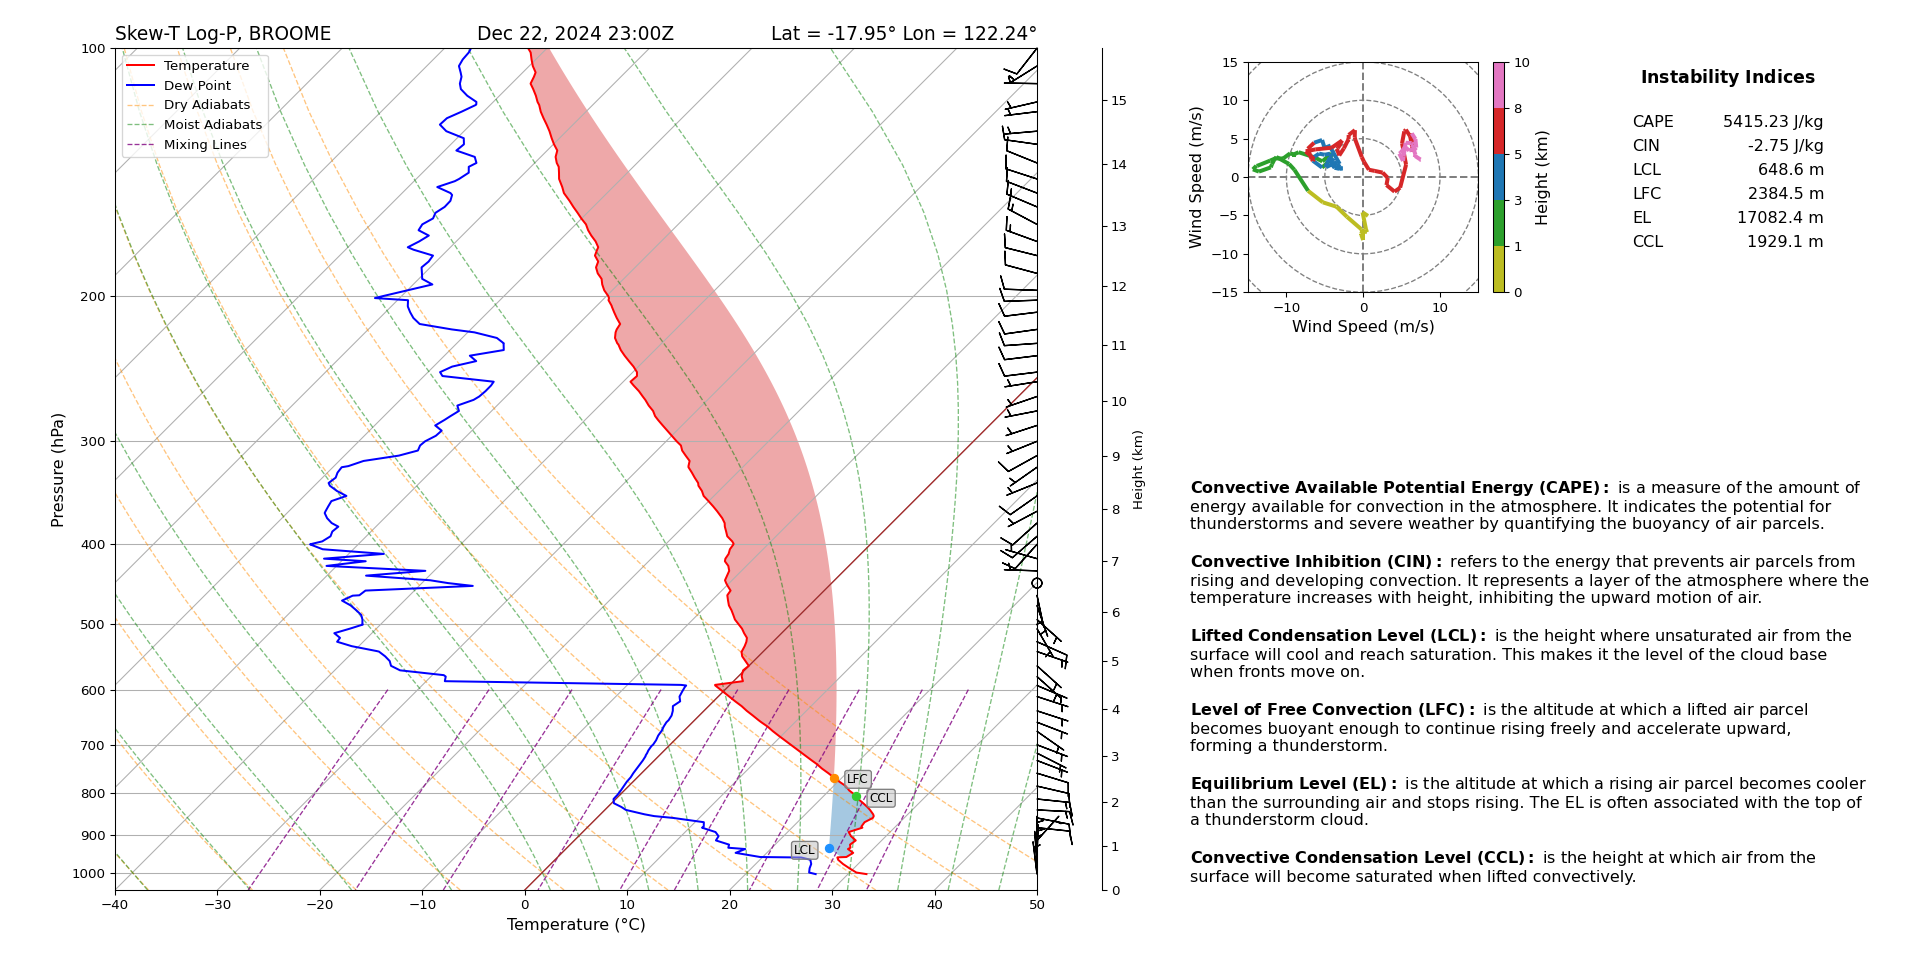
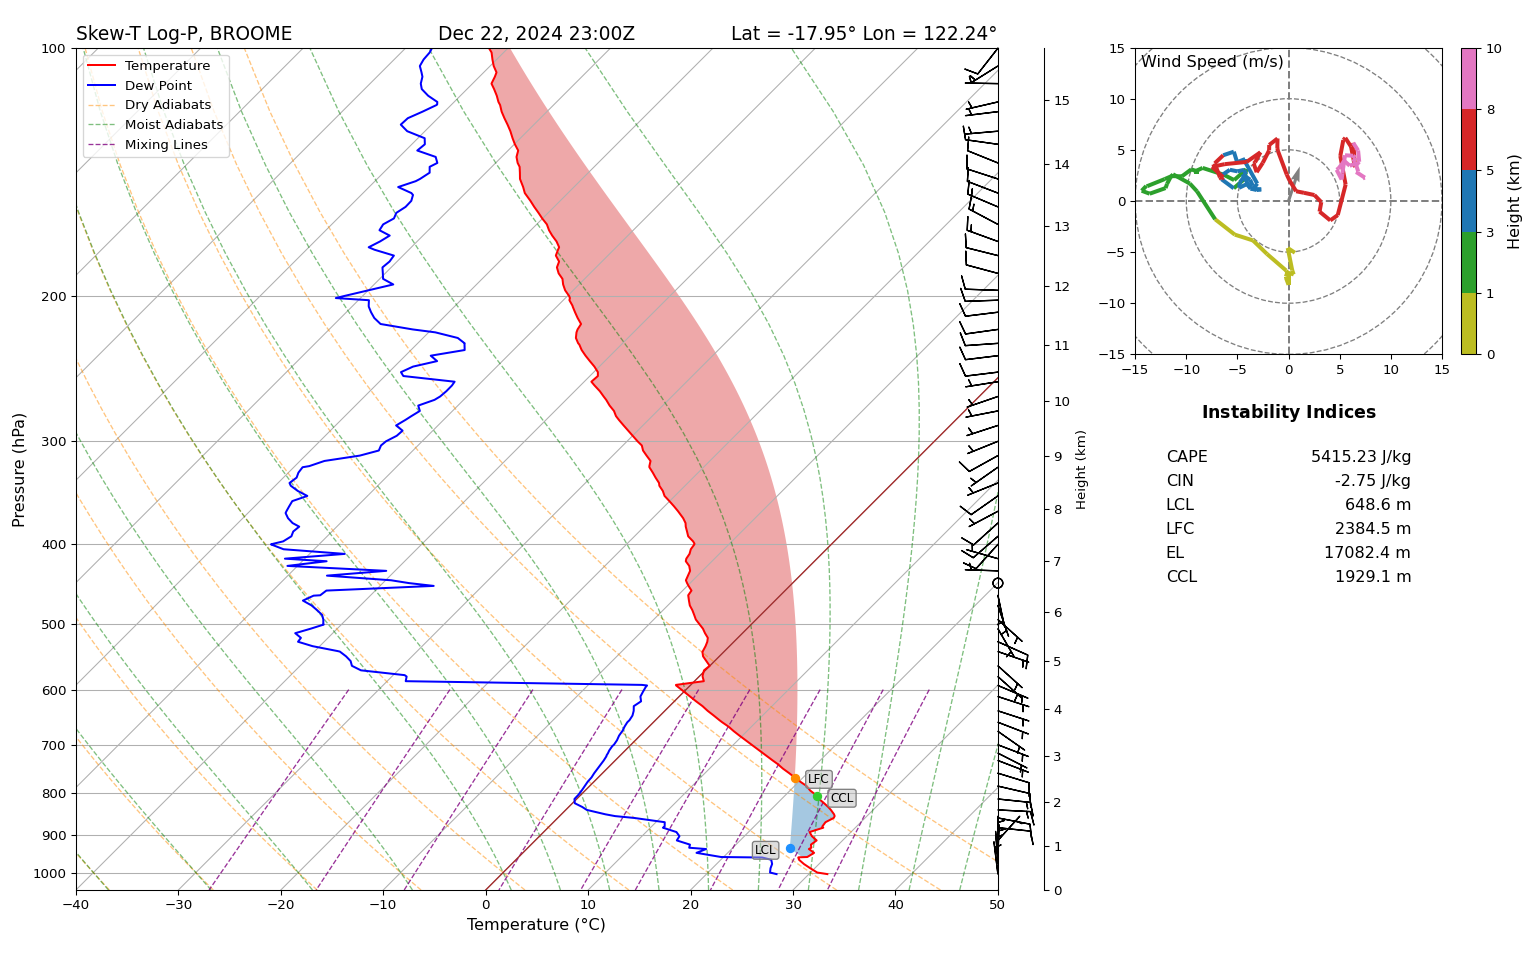
Update files

diff --git a/skewT_plot.py b/skewT_plot.py
@@ -12,7 +12,7 @@ def skewT_plot(pressures, temperatures, dewpoints, wind_u, wind_v, heights, lat,
         pressures_short, wind_u_short, wind_v_short, parcel, cape, cin, pressure_lcl, temperature_lcl, height_lcl,
         pressure_lfc, temperature_lfc, height_lfc, pressure_el, temperature_el, height_el,
         pressure_ccl, temperature_ccl, height_ccl, pressures_cape, temperatures_cape, parcel_cape,
-        pressures_cin, temperatures_cin,parcel_cin):
+        pressures_cin, temperatures_cin,parcel_cin, u_storm, v_storm):
         
     # Create a new figure and Skew-T diagram
     fig = plt.figure(figsize=(10, 10), dpi=96)
@@ -51,7 +51,7 @@ def skewT_plot(pressures, temperatures, dewpoints, wind_u, wind_v, heights, lat,
                  textcoords='offset points', color='black', fontsize=9, ha='left',
                  bbox=dict(facecolor=(0.75, 0.75, 0.75, 0.5), edgecolor='grey', boxstyle='round,pad=0.2'))
 
-    secax = skew.ax.secondary_yaxis(1.07,
+    secax = skew.ax.secondary_yaxis(1.05,
         functions=(
             lambda p: mpcalc.pressure_to_height_std(units.Quantity(p, 'hPa')).m_as('km'),
             lambda h: mpcalc.height_to_pressure_std(units.Quantity(h, 'km')).m
@@ -81,7 +81,7 @@ def skewT_plot(pressures, temperatures, dewpoints, wind_u, wind_v, heights, lat,
 
     # Add CAPE, CIN, LCL, LFC, EL, and CCL information
     fig.text(
-        0.90, 0.93,
+        0.84, 0.58,
         r'$\bf{Instability\ Indices}$',
         fontsize=13,
         va='top',
@@ -90,7 +90,7 @@ def skewT_plot(pressures, temperatures, dewpoints, wind_u, wind_v, heights, lat,
     )
 
     fig.text(
-        0.85, 0.88,
+        0.76, 0.53,
         'CAPE\nCIN\nLCL\nLFC\nEL\nCCL',
         fontsize=12,
         va='top',
@@ -108,44 +108,19 @@ def skewT_plot(pressures, temperatures, dewpoints, wind_u, wind_v, heights, lat,
     )
 
     fig.text(
-        0.95, 0.88,
+        0.92, 0.53,
         text1,
         fontsize=12,
         va='top',
         ha='right',
         linespacing=1.75
-    ) 
-
-    fig.text(
-        0.62, 0.50,
-        r'$\bf{Convective\ Available\ Potential\ Energy\ (CAPE):\ }$'
-        'is a measure of the amount of\nenergy available for convection in the atmosphere. It indicates the potential for\n'
-        'thunderstorms and severe weather by quantifying the buoyancy of air parcels.\n\n'
-        r'$\bf{Convective\ Inhibition\ (CIN):\ }$'
-        'refers to the energy that prevents air parcels from\nrising and developing convection. It represents a layer of the'
-        ' atmosphere where the\ntemperature increases with height, inhibiting the upward motion of air.\n\n'
-        r'$\bf{Lifted\ Condensation\ Level\ (LCL):\ }$'
-        'is the height where unsaturated air from the\nsurface will cool and reach saturation. This makes it the level'
-        ' of the cloud base\nwhen fronts move on.\n\n'
-        r'$\bf{Level\ of\ Free\ Convection\ (LFC):\ }$'
-        'is the altitude at which a lifted air parcel\nbecomes buoyant enough to continue rising freely and accelerate upward,'
-        '\nforming a thunderstorm.\n\n'
-        r'$\bf{Equilibrium\ Level\ (EL):\ }$'
-        'is the altitude at which a rising air parcel becomes cooler\nthan the surrounding air and stops rising. The EL is'
-        ' often associated with the top of\na thunderstorm cloud.\n\n'
-        r'$\bf{Convective\ Condensation\ Level\ (CCL):\ }$'
-        'is the height at which air from the\nsurface will become saturated when lifted convectively.\n\n'
-        ,
-        fontsize=12,
-        va='top',
-        ha='left'
     )
 
     # Labels and other adjustments
     plt.xlabel('Temperature (°C)', fontsize=12)
     plt.ylabel('Pressure (hPa)', fontsize=12)
 
-    fig.subplots_adjust(left=-0.4, bottom=0.07, right=1, top=0.95, wspace=0, hspace=0)
+    fig.subplots_adjust(left=-0.3, bottom=0.07, right=1, top=0.95, wspace=0, hspace=0)
 
     #  Calculate above ground level (AGL) heights
     agl = (heights - heights[0]) / 1000
@@ -159,7 +134,7 @@ def skewT_plot(pressures, temperatures, dewpoints, wind_u, wind_v, heights, lat,
     grid_increment = valid_increments[np.argmin(abs(valid_increments - component_range / 3))]
     
     # Add hodograph on the right
-    gs = GridSpec(1, 2, left=0.5, bottom=0.5, right=0.8, top=1.13, wspace=0, hspace=0)
+    gs = GridSpec(1, 2, left=0.49, bottom=0.475, right=0.99, top=1.105, wspace=0, hspace=0)
     ax_hodo = fig.add_subplot(gs[0, 1])
     h = Hodograph(ax_hodo, component_range=component_range)
     h.add_grid(increment=grid_increment)
@@ -170,13 +145,27 @@ def skewT_plot(pressures, temperatures, dewpoints, wind_u, wind_v, heights, lat,
         intervals=intervals,
         colors=colors
     )
+
+    # Add storm motion vector to the hodograph
+    ax_hodo.quiver(
+        0, 0,  # Start at origin
+        u_storm, v_storm,  # Storm motion vector
+        angles='xy', scale_units='xy', scale=1, color='grey', width=0.01
+    )
+
     # Add the colorbar with custom size
-    cbar = plt.colorbar(l, ax=ax_hodo, orientation='vertical', pad=0.05, shrink=0.38)  # shrink value controls size
+    cbar = plt.colorbar(l, ax=ax_hodo, orientation='vertical', pad=0.05, shrink=0.507)  # shrink value controls size
     cbar.set_label('Height (km)', fontsize=12)
     cbar.ax.tick_params(labelsize=10)
 
-    ax_hodo.set_xlabel('Wind Speed (m/s)', fontsize=12)
-    ax_hodo.set_ylabel('Wind Speed (m/s)', fontsize=12)
+    ax_hodo.text(
+    0.02, 0.95,  # Position: horizontal, vertical
+    'Wind Speed (m/s)',
+    fontsize=12,
+    rotation=0,
+    ha='left', va='center',
+    transform=ax_hodo.transAxes  # Use axis coordinates
+    )
 
     # Save figure
     output_dir = "Soundings"
@@ -188,7 +177,7 @@ def skewT_plot(pressures, temperatures, dewpoints, wind_u, wind_v, heights, lat,
     timestamp_fig = timestamp.strftime('%Y%m%d%H')
     output_filename = os.path.join(output_dir, f"{output_filename}_{timestamp_fig}.png")
     
-    fig.set_size_inches(1920 / 96, 957 / 96)
+    fig.set_size_inches(1534 / 96, 957 / 96)
     plt.savefig(output_filename, dpi = 96, format='png')
 
     #plt.show(block=False)

diff --git a/main.py b/main.py
@@ -16,7 +16,7 @@ def main():
         
         (pressures_short, wind_u_short, wind_v_short, parcel, cape, cin, pressure_lcl, temperature_lcl, height_lcl,
          pressure_lfc, temperature_lfc, height_lfc, pressure_el, temperature_el, height_el, pressure_ccl, temperature_ccl, height_ccl,
-         pressures_cape, temperatures_cape, parcel_cape, pressures_cin, temperatures_cin, parcel_cin) = skewT_calc(
+         pressures_cape, temperatures_cape, parcel_cape, pressures_cin, temperatures_cin, parcel_cin, u_storm, v_storm) = skewT_calc(
             pressures, temperatures, dewpoints, wind_u, wind_v, heights, lat, lon, timestamp, filename
         )
         
@@ -24,7 +24,8 @@ def main():
             pressures, temperatures, dewpoints, wind_u, wind_v, heights, lat, lon, timestamp, filename,
             pressures_short, wind_u_short, wind_v_short, parcel, cape, cin, pressure_lcl, temperature_lcl, height_lcl,
             pressure_lfc, temperature_lfc, height_lfc, pressure_el, temperature_el, height_el,
-            pressure_ccl, temperature_ccl, height_ccl, pressures_cape, temperatures_cape, parcel_cape, pressures_cin, temperatures_cin, parcel_cin
+            pressure_ccl, temperature_ccl, height_ccl, pressures_cape, temperatures_cape, parcel_cape, pressures_cin, temperatures_cin, parcel_cin,
+            u_storm, v_storm
         )
 
 if __name__ == '__main__':

diff --git a/skewT_calc.py b/skewT_calc.py
@@ -1,4 +1,5 @@
 import numpy as np
+import metpy
 from metpy.units import units
 from metpy.calc import cape_cin, parcel_profile, lfc, el, lcl, ccl
 from pressure_to_height import pressure_to_height
@@ -38,6 +39,12 @@ def skewT_calc(pressures, temperatures, dewpoints, wind_u, wind_v, heights, lat,
     temperatures_cin = temperatures[cin_indices]
     parcel_cin = parcel[cin_indices]
 
+    # Bunkers storm motion
+    bunkers_motion = metpy.calc.bunkers_storm_motion(pressures * units.hPa, wind_u * units('m/s'), wind_v * units('m/s'), heights * units.m)
+    rm_storm, lm_storm, mean_wind = bunkers_motion
+    u_storm = rm_storm[0].magnitude
+    v_storm = rm_storm[1].magnitude
+
     return (
         pressures_short, wind_u_short, wind_v_short,
         parcel, cape, cin,
@@ -46,5 +53,6 @@ def skewT_calc(pressures, temperatures, dewpoints, wind_u, wind_v, heights, lat,
         pressure_el, temperature_el, height_el,
         pressure_ccl, temperature_ccl, height_ccl,
         pressures_cape, temperatures_cape, parcel_cape,
-        pressures_cin, temperatures_cin, parcel_cin
+        pressures_cin, temperatures_cin, parcel_cin,
+        u_storm, v_storm
     )
